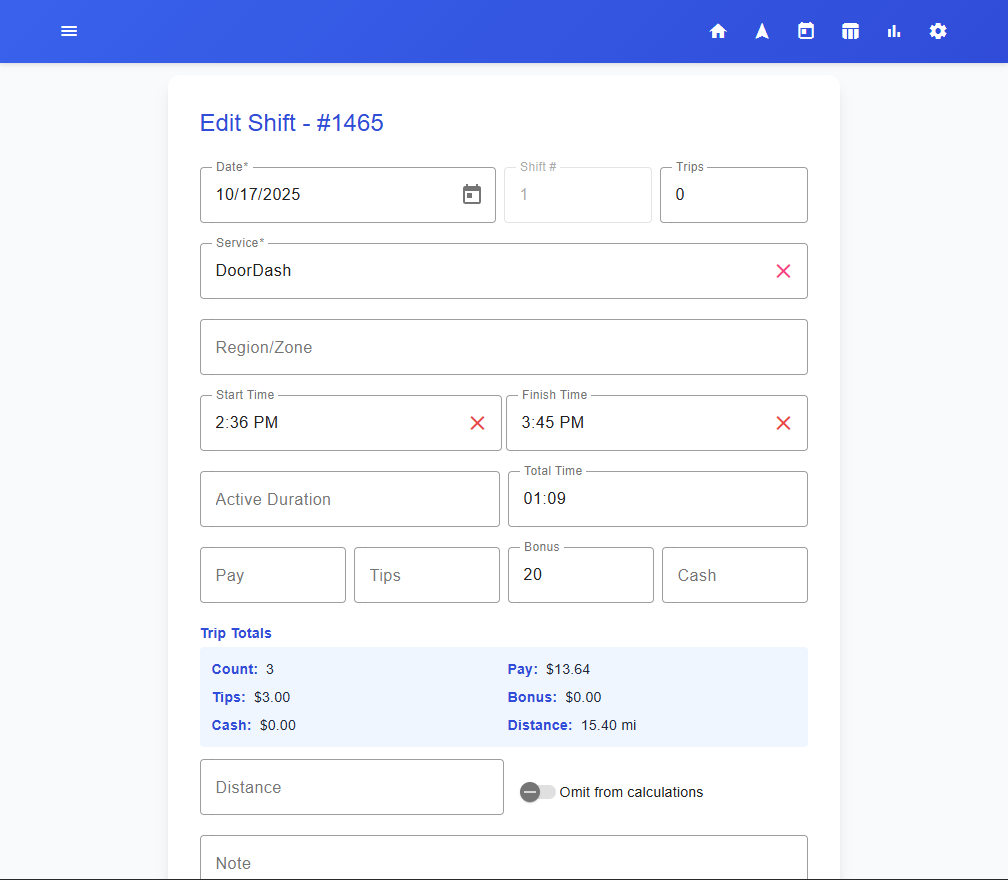
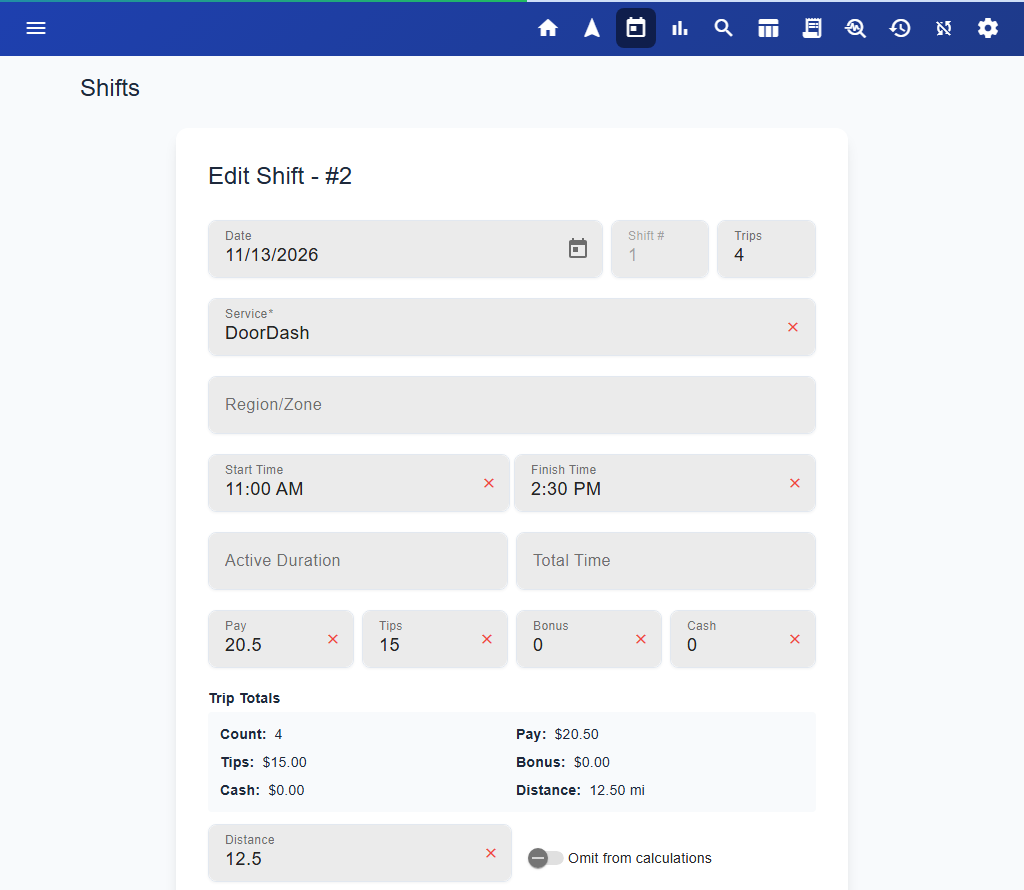
Add Playwright script to regenerate PWA install screenshots
npm run screenshots captures the manifest screenshots at their declared sizes
from stubbed sample data, replacing the stale images.

diff --git a/e2e-screenshots/install-screenshots.spec.ts b/e2e-screenshots/install-screenshots.spec.ts
@@ -1,0 +1,202 @@
+import { readFileSync } from 'node:fs';
+import { join } from 'node:path';
+import { expect, test } from '@playwright/test';
+import type { Page } from '@playwright/test';
+import { API_BASE, E2E_SHEET, fulfillJson, signIn, stubBackend } from '../e2e/support/stub-backend';
+import { sheetEntity, shiftRow, tripRow } from '../e2e/support/sheet-fixture';
+import { SCREENSHOT_ENTRIES } from './manifest-screenshots';
+
+// Captures the PWA install-preview screenshots declared in src/manifest.json. Run with
+// `npm run screenshots` (playwright.screenshots.config.ts); never part of `npm run e2e`.
+
+const TEST_TIMEOUT_MS = 120_000;
+const SYNC_MODAL_TIMEOUT_MS = 30_000;
+const ICON_CSS_URL = 'https://fonts.googleapis.com/icon?family=Material+Icons';
+const ICON_FONT_URL = 'https://fonts.gstatic.com/e2e/material-icons.woff2';
+const ICON_FONT_DIR = join(__dirname, '..', 'node_modules', 'material-icons', 'iconfont');
+const THEME_STORAGE_KEY = 'rg-theme-preference';
+const MS_PER_DAY = 1000 * 60 * 60 * 24;
+// Rows are numbered from 2; row 1 is the sheet's header.
+const FIRST_ROW_ID = 2;
+const TODAY_SHIFT_ROW_ID = FIRST_ROW_ID;
+const TODAY_TRIP_ROW_ID = FIRST_ROW_ID + 1;
+
+interface ISampleTrip {
+  place: string; name: string; type: string; pickup: string; dropoff: string; duration: string;
+  pay: number; tip: number; distance: number; startAddress: string; endAddress: string;
+}
+interface ISampleShift {
+  daysAgo: number; number: number; service: string; start: string; finish: string; trips: ISampleTrip[];
+}
+
+const SAMPLE_SHIFTS: ISampleShift[] = [
+  {
+    daysAgo: 0, number: 1, service: 'DoorDash', start: '11:00 AM', finish: '2:30 PM',
+    trips: [
+      { place: 'Taco Spot', name: 'Alex', type: 'Pickup', pickup: '11:20 AM', dropoff: '11:41 AM', duration: '00:21:00', pay: 4.5, tip: 3, distance: 2.4, startAddress: '120 Main St', endAddress: '48 Oak Ave' },
+      { place: 'Green Bowl', name: 'Jordan', type: 'Pickup', pickup: '12:05 PM', dropoff: '12:32 PM', duration: '00:27:00', pay: 5.25, tip: 4.5, distance: 3.1, startAddress: '75 Pine St', endAddress: '310 Elm Dr' },
+      { place: 'Pizza Corner', name: 'Sam', type: 'Pickup', pickup: '1:10 PM', dropoff: '1:38 PM', duration: '00:28:00', pay: 6, tip: 5, distance: 4.2, startAddress: '9 Market Sq', endAddress: '22 Lake Rd' },
+      { place: 'Noodle House', name: 'Taylor', type: 'Pickup', pickup: '2:00 PM', dropoff: '2:22 PM', duration: '00:22:00', pay: 4.75, tip: 2.5, distance: 2.8, startAddress: '501 River St', endAddress: '14 Cedar Ct' },
+    ],
+  },
+  {
+    daysAgo: 1, number: 1, service: 'DoorDash', start: '5:00 PM', finish: '9:15 PM',
+    trips: [
+      { place: 'Burger Barn', name: 'Morgan', type: 'Pickup', pickup: '5:25 PM', dropoff: '5:49 PM', duration: '00:24:00', pay: 5, tip: 6, distance: 3.5, startAddress: '33 Hill St', endAddress: '81 Birch Ln' },
+      { place: 'Sushi Place', name: 'Casey', type: 'Pickup', pickup: '6:40 PM', dropoff: '7:12 PM', duration: '00:32:00', pay: 7.5, tip: 8, distance: 5.6, startAddress: '210 Bay St', endAddress: '6 Harbor Way' },
+      { place: 'Taco Spot', name: 'Riley', type: 'Pickup', pickup: '8:05 PM', dropoff: '8:30 PM', duration: '00:25:00', pay: 4.5, tip: 3.5, distance: 2.9, startAddress: '120 Main St', endAddress: '95 Maple Ave' },
+    ],
+  },
+  {
+    daysAgo: 2, number: 1, service: 'Uber Eats', start: '12:00 PM', finish: '3:00 PM',
+    trips: [
+      { place: 'Green Bowl', name: 'Jamie', type: 'Pickup', pickup: '12:30 PM', dropoff: '12:58 PM', duration: '00:28:00', pay: 6.25, tip: 4, distance: 3.8, startAddress: '75 Pine St', endAddress: '40 Spruce St' },
+      { place: 'Pizza Corner', name: 'Drew', type: 'Pickup', pickup: '1:45 PM', dropoff: '2:15 PM', duration: '00:30:00', pay: 5.5, tip: 5.5, distance: 4.4, startAddress: '9 Market Sq', endAddress: '18 Willow Ct' },
+    ],
+  },
+];
+
+const round = (n: number) => Math.round(n * 100) / 100;
+
+// Mirrors DateHelper.getDays / toISO, as e2e/support/sheet-fixture.ts does for today.
+function dateFor(daysAgo: number): { date: string; serial: number } {
+  const day = new Date(Date.now() - daysAgo * MS_PER_DAY);
+  return {
+    date: day.toLocaleDateString('sv-SE'),
+    serial: Math.floor((day.getTime() - new Date('1900-01-01').getTime()) / MS_PER_DAY) + 2,
+  };
+}
+
+function buildSheet(): Record<string, unknown> {
+  const shifts: Record<string, unknown>[] = [];
+  const trips: Record<string, unknown>[] = [];
+  let rowId = FIRST_ROW_ID;
+  let tripRowId = FIRST_ROW_ID;
+  for (const sample of SAMPLE_SHIFTS) {
+    const { date, serial } = dateFor(sample.daysAgo);
+    const key = `${serial}-${sample.number}-${sample.service}`;
+    const pay = round(sample.trips.reduce((sum, t) => sum + t.pay, 0));
+    const tip = round(sample.trips.reduce((sum, t) => sum + t.tip, 0));
+    const distance = round(sample.trips.reduce((sum, t) => sum + t.distance, 0));
+    const total = round(pay + tip);
+    shifts.push(shiftRow({
+      rowId: rowId++, date, key, number: sample.number, service: sample.service,
+      start: sample.start, finish: sample.finish,
+      trips: sample.trips.length, distance, pay, tip, total,
+      totalTrips: sample.trips.length, totalDistance: distance, totalPay: pay, totalTips: tip, grandTotal: total,
+      amountPerTrip: round(total / sample.trips.length),
+    }));
+    for (const t of sample.trips) {
+      trips.push(tripRow({
+        rowId: tripRowId++, date, key, number: sample.number, service: sample.service,
+        type: t.type, place: t.place, name: t.name,
+        pickupTime: t.pickup, dropoffTime: t.dropoff, duration: t.duration,
+        startAddress: t.startAddress, endAddress: t.endAddress,
+        pay: t.pay, tip: t.tip, total: round(t.pay + t.tip), distance: t.distance,
+        amountPerDistance: round((t.pay + t.tip) / t.distance),
+      }));
+    }
+  }
+  return sheetEntity({ shifts, trips });
+}
+
+/**
+ * index.html loads Material Icons from Google Fonts, which the e2e stubs abort - without
+ * this every icon would render as its ligature text. Serves the devDependency's copy instead.
+ */
+async function serveIconFont(page: Page): Promise<void> {
+  await page.route(ICON_CSS_URL, route => route.fulfill({
+    contentType: 'text/css',
+    headers: { 'Access-Control-Allow-Origin': '*' },
+    body: readFileSync(join(ICON_FONT_DIR, 'material-icons.css'), 'utf8')
+      .replace(/url\(\s*["']?[^)"']*material-icons\.woff2["']?\s*\)/, `url(${ICON_FONT_URL})`)
+      .replace(/,\s*url\([^)]*\.woff["']?\)\s*format\(["']woff["']\)/, ''),
+  }));
+  await page.route(ICON_FONT_URL, route => route.fulfill({
+    contentType: 'font/woff2',
+    headers: { 'Access-Control-Allow-Origin': '*' },
+    body: readFileSync(join(ICON_FONT_DIR, 'material-icons.woff2')),
+  }));
+}
+
+async function linkSheet(page: Page): Promise<void> {
+  await page.goto('/setup');
+  await page.getByRole('button', { name: /Link Sheet/ }).click();
+  await page.getByRole('heading', { name: E2E_SHEET.name }).click();
+  await page.getByRole('button', { name: /Select/ }).click();
+  const syncModal = page.locator('app-data-sync-modal');
+  await expect(syncModal).toBeVisible();
+  await expect(syncModal).toBeHidden({ timeout: SYNC_MODAL_TIMEOUT_MS });
+}
+
+/** Waits for fonts and the last layout pass so icons never render as their ligature text. */
+async function settle(page: Page): Promise<void> {
+  await page.evaluate(() => document.fonts.ready);
+  await expect(page.locator('mat-progress-spinner, mat-spinner, mat-progress-bar')).toHaveCount(0);
+  await expect(page.getByText('Loading...')).toBeHidden();
+  await page.evaluate(() => new Promise<void>(resolve => requestAnimationFrame(() => requestAnimationFrame(() => resolve()))));
+}
+
+// How to reach each manifest screen and what proves it has rendered real data.
+const SCREENS: Record<string, (page: Page) => Promise<void>> = {
+  'add-trip': async page => {
+    await page.goto('/trips');
+    await expect(page.getByText('Taco Spot').first()).toBeVisible();
+    await expect(page.getByLabel('Note', { exact: true })).toBeVisible();
+  },
+  'todays-trips': async page => {
+    await page.goto('/trips');
+    await expect(page.getByText('Noodle House').first()).toBeVisible();
+    // The list sits below the add form; bring it to the top of the frame.
+    const heading = page.getByText(/Today's Trips \(4\)/);
+    await expect(heading).toBeVisible();
+    await heading.evaluate(el => {
+      el.style.scrollMarginTop = '72px'; // clear the sticky toolbar
+      el.scrollIntoView({ block: 'start', behavior: 'instant' });
+    });
+  },
+  'edit-trip': async page => {
+    await page.goto(`/trips/edit/${TODAY_TRIP_ROW_ID}`);
+    await expect(page).toHaveURL(/\/trips\/edit\//);
+    await expect(page.getByLabel('Note', { exact: true })).toBeVisible();
+    await expect(page.getByLabel('Place')).toHaveValue('Green Bowl');
+  },
+  'shifts': async page => {
+    await page.goto('/shifts');
+    await expect(page.getByText('Uber Eats').first()).toBeVisible();
+  },
+  'edit-shift': async page => {
+    await page.goto(`/shifts/edit/${TODAY_SHIFT_ROW_ID}`);
+    await expect(page).toHaveURL(/\/shifts\/edit\//);
+    await expect(page.getByRole('heading', { name: /Edit Shift/ })).toBeVisible();
+    await expect(page.getByLabel('Start Time')).not.toHaveValue('');
+  },
+  'stats': async page => {
+    await page.goto('/stats');
+    await expect(page.locator('app-stats-table').first()).toContainText('DoorDash');
+  },
+};
+
+test.describe('install-preview screenshots', () => {
+  test.beforeEach(async ({ page, context }, testInfo) => {
+    // Titles start with the form factor; skip before the (slow) sheet load for the other project.
+    test.skip(!testInfo.title.startsWith(`${testInfo.project.name} `), 'other form factor');
+    test.setTimeout(TEST_TIMEOUT_MS);
+    await signIn(context);
+    await context.addInitScript(key => localStorage.setItem(key, 'light'), THEME_STORAGE_KEY);
+    await stubBackend(context);
+    await page.route(`${API_BASE}/sheets/all`, route => fulfillJson(route, { sheetEntity: buildSheet() }));
+    await serveIconFont(page);
+    await linkSheet(page);
+  });
+
+  for (const entry of SCREENSHOT_ENTRIES) {
+    test(`${entry.formFactor} ${entry.name}`, async ({ page }) => {
+      const open = SCREENS[entry.name];
+      expect(open, `no capture defined for manifest screenshot "${entry.name}"`).toBeDefined();
+      await open(page);
+      await settle(page);
+      await page.screenshot({ path: entry.file });
+    });
+  }
+});

diff --git a/e2e-screenshots/manifest-screenshots.ts b/e2e-screenshots/manifest-screenshots.ts
@@ -1,0 +1,28 @@
+import { readFileSync } from 'node:fs';
+import { join } from 'node:path';
+
+// Reads the screenshot list from src/manifest.json so the capture sizes and file names can
+// never drift from what the manifest declares.
+interface IManifestScreenshot {
+  src: string;
+  sizes: string;
+  form_factor: 'narrow' | 'wide';
+}
+
+const SRC_DIR = join(__dirname, '..', 'src');
+const manifest = JSON.parse(readFileSync(join(SRC_DIR, 'manifest.json'), 'utf8')) as { screenshots: IManifestScreenshot[] };
+
+export type FormFactor = IManifestScreenshot['form_factor'];
+export const SCREENSHOT_FORM_FACTORS: FormFactor[] = ['narrow', 'wide'];
+
+export const SCREENSHOT_ENTRIES = manifest.screenshots.map(entry => {
+  const [width, height] = entry.sizes.split('x').map(Number);
+  return { formFactor: entry.form_factor, width, height, file: join(SRC_DIR, entry.src), name: entry.src.split('/').pop()!.replace('.png', '') };
+});
+
+export const SCREENSHOT_SIZES = Object.fromEntries(
+  SCREENSHOT_FORM_FACTORS.map(factor => {
+    const entry = SCREENSHOT_ENTRIES.find(e => e.formFactor === factor)!;
+    return [factor, { width: entry.width, height: entry.height }];
+  })
+) as Record<FormFactor, { width: number; height: number }>;

diff --git a/playwright.screenshots.config.ts b/playwright.screenshots.config.ts
@@ -1,0 +1,33 @@
+import { defineConfig } from '@playwright/test';
+import { APP_ORIGIN, E2E_PORT } from './e2e/support/stub-backend';
+import { SCREENSHOT_FORM_FACTORS, SCREENSHOT_SIZES } from './e2e-screenshots/manifest-screenshots';
+
+const SERVER_START_TIMEOUT_MS = 180_000;
+
+// Regenerates the PWA install-preview screenshots listed in src/manifest.json (npm run
+// screenshots). Kept apart from playwright.config.ts so `npm run e2e` never rewrites assets.
+// Backend, Google and S3 are stubbed exactly as in the e2e suite.
+export default defineConfig({
+  testDir: './e2e-screenshots',
+  testMatch: '*.spec.ts',
+  // One worker: every project shares the same dev server and writes into src/assets.
+  workers: 1,
+  reporter: 'list',
+  use: {
+    baseURL: APP_ORIGIN,
+    serviceWorkers: 'block',
+    colorScheme: 'light',
+    deviceScaleFactor: 1,
+  },
+  projects: SCREENSHOT_FORM_FACTORS.map(formFactor => ({
+    name: formFactor,
+    use: { viewport: SCREENSHOT_SIZES[formFactor] },
+  })),
+  webServer: {
+    command: `npm start -- --port ${E2E_PORT} --proxy-config src/proxy.empty.json`,
+    url: APP_ORIGIN,
+    reuseExistingServer: true,
+    stdout: 'ignore',
+    timeout: SERVER_START_TIMEOUT_MS,
+  },
+});

diff --git a/README.md b/README.md
@@ -72,6 +72,14 @@ Run frontend unit tests:
 npm test
 ```
 
+### PWA install screenshots
+The install-preview images listed under `screenshots` in `src/manifest.json` (`src/assets/screenshots/narrow` and `wide`) are generated, not hand-captured. After a UI change, regenerate them with:
+```bash
+npx playwright install chromium   # first time only
+npm run screenshots
+```
+This starts the dev server on port 4201 (or reuses one already there), loads stubbed sample data (no real sheet, backend or Google call) and writes each PNG at the exact size the manifest declares. Review the images, then commit them. The script lives in `e2e-screenshots/` and is not part of `npm run e2e`. To add a screen, add the entry to the manifest and a matching capture in `e2e-screenshots/install-screenshots.spec.ts`.
+
 ## Service (Lambda)
 
 ### Setup
